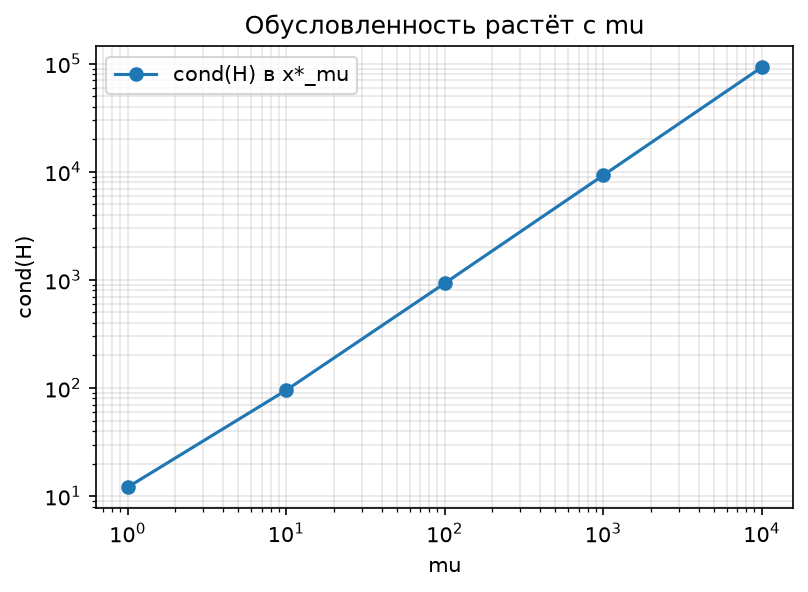
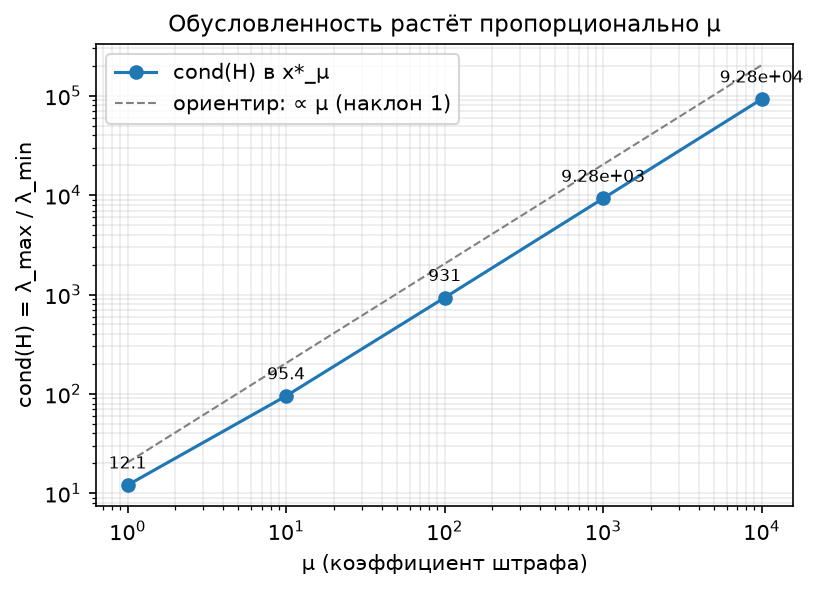
Исправленные графики п.5

diff --git a/scripts/metrics_report.py b/scripts/metrics_report.py
@@ -22,11 +22,11 @@ import matplotlib
 matplotlib.use("Agg")
 import matplotlib.pyplot as plt
 import numpy as np
-from scipy.optimize import linprog
+from scipy.optimize import linprog, minimize
 
 from methods.gd import GD
 from oracles.transport import TransportOracle
-from scripts.check_penalty import constraint_matrix, newton_solve, reference_solution
+from scripts.check_penalty import constraint_matrix, newton_solve
 from utils.metrics import condition_number
 
 OUT = "figures"
@@ -37,44 +37,53 @@ def f_orig(o, x):
     return float(o.a.ravel() @ x + 0.5 * np.sum(o.b.ravel() * x**2))
 
 
-def exact_equality_qp(o):
-    """Точное решение задачи при Ax = r (без x >= 0) из системы KKT:
-        diag(b) x + A^T lam = -a,   A x = r.
-    Если все x_ij >= 0, это и есть решение исходной задачи (x >= 0 не активно).
+def scipy_reference(o):
+    """Эталон f*: scipy.optimize.minimize (SLSQP) на ИСХОДНОЙ задаче с ограничениями.
+
+    Важно: уравнений баланса m+n, но независимых только m+n-1 (sum s = sum d),
+    а SLSQP плохо переносит линейно зависимые ограничения (без этого он
+    останавливается с ошибкой 0.02-5 по f). Поэтому убираем последнюю строку.
     """
     A, r = constraint_matrix(o.m, o.n), np.concatenate([o.s, o.d])
-    k = A.shape[0]
-    K = np.block([[np.diag(o.b.ravel()), A.T], [A, np.zeros((k, k))]])
-    rhs = np.concatenate([-o.a.ravel(), r])
-    x = np.linalg.lstsq(K, rhs, rcond=None)[0][:o.dim]   # A неполного ранга -> lstsq
-    return x
+    Ae, re = A[:-1], r[:-1]
+    a, b = o.a.ravel(), o.b.ravel()
+    res = minimize(lambda x: a @ x + 0.5 * np.sum(b * x**2),
+                   np.full(o.dim, r[:o.m].sum() / o.dim),
+                   jac=lambda x: a + b * x, method="SLSQP",
+                   bounds=[(0, None)] * o.dim,
+                   constraints={"type": "eq", "fun": lambda x: Ae @ x - re, "jac": lambda x: Ae},
+                   options={"ftol": 1e-14, "maxiter": 1000})
+    assert res.success, f"SLSQP не сошёлся: {res.message}"
+    return res.x, float(res.fun)
+
+
+def cvxpy_reference(o):
+    """Тот же f* через cvxpy; None, если cvxpy не установлен."""
+    try:
+        import cvxpy as cp
+    except ImportError:
+        return None
+    A, r = constraint_matrix(o.m, o.n), np.concatenate([o.s, o.d])
+    x = cp.Variable(o.dim)
+    obj = o.a.ravel() @ x + 0.5 * cp.sum(cp.multiply(o.b.ravel(), cp.square(x)))
+    pb = cp.Problem(cp.Minimize(obj), [A @ x == r, x >= 0])
+    pb.solve()
+    return float(pb.value)
 
 
 def reference(o):
-    """f* точно (KKT), SLSQP как перекрёстная проверка, LP как нижняя граница."""
+    """f*: scipy (основной), cvxpy (если есть) и LP (sanity check, нижняя граница)."""
     A, r = constraint_matrix(o.m, o.n), np.concatenate([o.s, o.d])
-    x_slsqp, f_slsqp = reference_solution(o)
-    x_ref = exact_equality_qp(o)
-    if x_ref.min() < -1e-9:           # x >= 0 активно -> KKT неприменим, берём SLSQP
-        x_ref, f_ref = x_slsqp, f_slsqp
-    else:
-        f_ref = f_orig(o, x_ref)
-    # LP с b=0: нижняя граница, т.к. b >= 0  =>  f_LP* <= f*
+    x_ref, f_ref = scipy_reference(o)
+    # sanity check: LP при b = 0. Так как b >= 0, стоимость LP не больше f*.
     lp = linprog(o.a.ravel(), A_eq=A, b_eq=r, bounds=(0, None), method="highs")
-    info = {"f_exact": f_ref, "f_slsqp": f_slsqp,
-            "slsqp_error": float(f_slsqp - f_ref),     # у SLSQP может быть недосходимость
-            "f_lp_lower": lp.fun,
-            "viol_exact": float(np.abs(A @ x_ref - r).max()),
-            "min_x_exact": float(x_ref.min())}
-    try:
-        import cvxpy as cp
-        x = cp.Variable(o.dim)
-        pb = cp.Problem(cp.Minimize(o.a.ravel() @ x + 0.5 * cp.sum(cp.multiply(o.b.ravel(), cp.square(x)))),
-                        [A @ x == r, x >= 0])
-        pb.solve()
-        info["f_cvxpy"] = float(pb.value)
-    except ImportError:
-        pass
+    info = {"f_scipy": f_ref, "f_lp_lower": lp.fun,
+            "viol_scipy": float(np.abs(A @ x_ref - r).max()),
+            "min_x_scipy": float(x_ref.min())}
+    f_cvx = cvxpy_reference(o)
+    if f_cvx is not None:
+        info["f_cvxpy"] = f_cvx
+        assert abs(f_cvx - f_ref) < 1e-4 * max(1.0, abs(f_ref)), "scipy и cvxpy не совпали"
     assert info["f_lp_lower"] <= f_ref + 1e-8, "LP-граница выше f*: эталон неверен"
     return x_ref, f_ref, info
 
@@ -113,7 +122,7 @@ def run(m, n, seed, mus, tol, eps_gap, max_iter):
     r = np.concatenate([o0.s, o0.d])
     _, f_star, ref_info = reference(o0)
 
-    rows, hists = [], {}
+    rows, hists, devs = [], {}, {}
     for mu in mus:
         o = TransportOracle(m, n, seed, mu=mu)
         x_mu = newton_solve(o, np.zeros(o.dim))            # точный минимум F_mu
@@ -133,45 +142,124 @@ def run(m, n, seed, mus, tol, eps_gap, max_iter):
             "gd_residual_final": float(np.linalg.norm(A @ x_end - r)),
         })
         hists[mu] = np.array(f_hist) - F_mu_star
+        devs[mu] = A @ x_mu - r              # недовоз/перевоз по каждому складу и магазину
         print(f"mu={mu:8g} cond={rows[-1]['cond_H']:.2e} res={rows[-1]['residual']:.2e} "
               f"f-f*={rows[-1]['f_minus_fstar']:+.2e} "
               f"GD iters: gap={rows[-1]['gd_iters_gap']} grad={rows[-1]['gd_iters_grad']}")
-    return f_star, ref_info, rows, hists
+    return f_star, ref_info, rows, hists, devs
 
 
-def make_plots(rows, hists, tag, crit="gap"):
+def _num(v):
+    """'>300000' -> 300000 (для нерасшедшихся точек), число остаётся числом."""
+    return int(str(v).lstrip(">")) if isinstance(v, str) else v
+
+
+def _save(fig, name, tag):
     os.makedirs(OUT, exist_ok=True)
+    fig.savefig(f"{OUT}/{name}_{tag}.png", dpi=150, bbox_inches="tight")
+    plt.close(fig)
+
+
+def _setup(ax, title, xlabel="μ (коэффициент штрафа)", ylabel=None):
+    ax.set_xscale("log"); ax.set_yscale("log")
+    ax.grid(True, which="both", alpha=.25)
+    ax.set_title(title, fontsize=11); ax.set_xlabel(xlabel)
+    if ylabel:
+        ax.set_ylabel(ylabel)
+
+
+def _ref(ax, mus, ys, power, label):
+    """Пунктир-ориентир: y ~ mu^power, проведён через последнюю точку (чуть смещён)."""
+    mus, ys = np.array(mus, float), np.array(ys, float)
+    y_ref = ys[-1] * (mus / mus[-1]) ** power * 2.2
+    ax.plot(mus, y_ref, "--", color="gray", lw=1, label=label)
+
+
+def make_plots(rows, hists, devs, tag, crit="gap", eps_gap=1e-4, m=3, n=3):
     mus = [r["mu"] for r in rows]
+    C, R, Q = "#1f77b4", "#d62728", "#ff7f0e"
 
+    # 1. обусловленность
+    cond = [r["cond_H"] for r in rows]
     fig, ax = plt.subplots(figsize=(6, 4))
-    ax.loglog(mus, [r["cond_H"] for r in rows], "o-", label="cond(H) в x*_mu")
-    ax.set_xlabel("mu"); ax.set_ylabel("cond(H)"); ax.grid(True, which="both", alpha=.3)
-    ax.set_title("Обусловленность растёт с mu"); ax.legend()
-    fig.savefig(f"{OUT}/cond_vs_mu_{tag}.png", dpi=150, bbox_inches="tight"); plt.close(fig)
+    ax.plot(mus, cond, "o-", color=C, label="cond(H) в x*_μ")
+    _ref(ax, mus, cond, 1, "ориентир: ∝ μ (наклон 1)")
+    for x, y in zip(mus, cond):
+        ax.annotate(f"{y:.3g}", (x, y), textcoords="offset points", xytext=(0, 8), ha="center", fontsize=8)
+    _setup(ax, "Обусловленность растёт пропорционально μ", ylabel="cond(H) = λ_max / λ_min")
+    ax.legend(); _save(fig, "cond_vs_mu", tag)
 
+    # 2. точность ограничений и качество
+    res = [r["residual"] for r in rows]
     fig, ax = plt.subplots(figsize=(6, 4))
-    ax.loglog(mus, [r["residual"] for r in rows], "o-", label="||Ax - r||")
-    ax.loglog(mus, [abs(r["f_minus_fstar"]) for r in rows], "s-", label="|f - f*|")
-    ax.set_xlabel("mu"); ax.grid(True, which="both", alpha=.3); ax.legend()
-    ax.set_title("Качество решения исходной задачи")
-    fig.savefig(f"{OUT}/quality_vs_mu_{tag}.png", dpi=150, bbox_inches="tight"); plt.close(fig)
+    ax.plot(mus, res, "o-", color=R, label="невязка ‖Ax − r‖")
+    ax.plot(mus, [abs(r["f_minus_fstar"]) for r in rows], "s-", color=Q, label="|f − f*|")
+    _ref(ax, mus, res, -1, "ориентир: ∝ 1/μ (наклон −1)")
+    for x, y in zip(mus, res):
+        ax.annotate(f"{y:.2g}", (x, y), textcoords="offset points", xytext=(0, 8), ha="center", fontsize=8, color=R)
+    _setup(ax, "Ограничения выполняются тем точнее, чем больше μ")
+    ax.legend(); _save(fig, "quality_vs_mu", tag)
 
+    # 3. итерации GD (не сошедшиеся точки показываем у потолка max_iter)
+    key = f"gd_iters_{crit}"; ok = f"gd_converged_{crit}"
+    crit_txt = (f"F_μ − F_μ* ≤ {eps_gap:g}" if crit == "gap" else "‖∇F‖ ≤ 1e-6·‖∇F(x₀)‖")
     fig, ax = plt.subplots(figsize=(6, 4))
-    ax.loglog(mus, [r[f"gd_iters_{crit}"] if r[f"gd_converged_{crit}"] else np.nan for r in rows], "o-")
-    for r in rows:
-        if not r[f"gd_converged_{crit}"]:
-            ax.annotate("не сошёлся", (r["mu"], 1), color="red", fontsize=8)
-    ax.set_xlabel("mu"); ax.set_ylabel("итераций GD: F-F* <= eps" if crit == "gap" else "итераций GD: ||grad|| <= tol*||grad(x0)||")
-    ax.grid(True, which="both", alpha=.3); ax.set_title("Число итераций GD (шаг 1/L)")
-    fig.savefig(f"{OUT}/iters_vs_mu_{tag}.png", dpi=150, bbox_inches="tight"); plt.close(fig)
+    good = [(r["mu"], r[key]) for r in rows if r[ok]]
+    bad = [(r["mu"], _num(r[key])) for r in rows if not r[ok]]
+    ax.plot(*zip(*good), "o-", color=C, label="GD, шаг 1/L")
+    if bad:
+        ax.plot(*zip(*bad), "x", color=R, ms=10, mew=2, label="не сошёлся за лимит итераций")
+        for x, y in bad:
+            ax.annotate(f">{y}", (x, y), textcoords="offset points", xytext=(0, -14), ha="center", fontsize=8, color=R)
+    for x, y in good:
+        ax.annotate(f"{y}", (x, y), textcoords="offset points", xytext=(0, 8), ha="center", fontsize=8)
+    _ref(ax, [g[0] for g in good], [g[1] for g in good], 1, "ориентир: ∝ μ")
+    _setup(ax, f"Число итераций GD ({crit_txt})", ylabel="итераций")
+    ax.legend(loc="lower right", fontsize=8); _save(fig, "iters_vs_mu", tag)
 
+    # 4. кривые сходимости
     fig, ax = plt.subplots(figsize=(7, 4))
     for mu, d in hists.items():
-        ax.semilogy(np.maximum(d, 1e-16), label=f"mu={mu:g}")
+        ax.semilogy(np.maximum(d, 1e-16), label=f"μ = {mu:g}")
+    ax.axhline(eps_gap, ls="--", color="gray", lw=1)
+    ax.text(0.99, eps_gap * 1.5, f"порог ε = {eps_gap:g}", transform=ax.get_yaxis_transform(), ha="right", fontsize=8, color="gray")
     ax.set_xscale("symlog", linthresh=10)
-    ax.set_xlabel("итерация"); ax.set_ylabel("F_mu(x_k) - F_mu*")
-    ax.grid(True, which="both", alpha=.3); ax.legend(); ax.set_title("Сходимость GD")
-    fig.savefig(f"{OUT}/convergence_{tag}.png", dpi=150, bbox_inches="tight"); plt.close(fig)
+    ax.set_xlabel("итерация GD"); ax.set_ylabel("F_μ(x_k) − F_μ*")
+    ax.grid(True, which="both", alpha=.25); ax.legend(); ax.set_title("Сходимость GD: чем больше μ, тем медленнее")
+    _save(fig, "convergence", tag)
+
+    # 5. компромисс: точность против стоимости вычислений
+    fig, ax = plt.subplots(figsize=(6, 4.3))
+    xs = [_num(r[key]) for r in rows]; ys = res
+    ax.plot(xs, ys, "-", color="gray", lw=1, zorder=1)
+    for r, x, y in zip(rows, xs, ys):
+        done = r[ok]
+        ax.scatter([x], [y], s=70, zorder=2, color=C if done else "white", edgecolor=C if done else R, linewidth=2)
+        ax.annotate(f"μ={r['mu']:g}" + ("" if done else "\n(не сошёлся)"), (x, y),
+                    textcoords="offset points", xytext=(8, 6), fontsize=8)
+    _setup(ax, "Компромисс: точнее ограничения — больше итераций",
+           xlabel="итераций GD (стоимость вычислений)", ylabel="невязка ‖Ax − r‖ (ошибка ограничений)")
+    ax.margins(x=0.15, y=0.15)
+    _save(fig, "tradeoff", tag)
+
+    # 6. что такое невязка физически: недовоз/перевоз по каждому складу и магазину
+    pick = [mu for mu in mus if mu in (1, 10, 100, 1000)] or mus[:4]
+    cols = 2; rws = int(np.ceil(len(pick) / cols))
+    fig, axs = plt.subplots(rws, cols, figsize=(8, 3.2 * rws), squeeze=False)
+    names = [f"Склад {i+1}" for i in range(m)] + [f"Магазин {j+1}" for j in range(n)]
+    if m + n > 8:
+        names = [f"С{i+1}" for i in range(m)] + [f"М{j+1}" for j in range(n)]
+    for ax, mu in zip(axs.ravel(), pick):
+        d = devs[mu]
+        ax.bar(range(len(d)), d, color=[Q if v < 0 else C for v in d])
+        ax.axhline(0, color="black", lw=.8); ax.axvline(m - .5, color="gray", ls=":")
+        ax.set_xticks(range(len(d))); ax.set_xticklabels(names, rotation=45, ha="right", fontsize=7)
+        ax.set_title(f"μ = {mu:g}:  ‖Ax − r‖ = {np.linalg.norm(d):.3g}", fontsize=10)
+        ax.set_ylabel("(Ax − r)ᵢ, ед. груза"); ax.grid(axis="y", alpha=.25)
+    for ax in axs.ravel()[len(pick):]:
+        ax.axis("off")
+    fig.suptitle("Невязка по ограничениям: оранж. — недовоз/недопоставка, синий — перевоз/излишек\n(масштаб оси Y в каждой панели свой: с ростом μ столбцы уменьшаются в разы)", fontsize=10)
+    fig.tight_layout(); _save(fig, "imbalance", tag)
 
 
 if __name__ == "__main__":
@@ -186,13 +274,13 @@ if __name__ == "__main__":
     a = p.parse_args()
 
     mus = [1, 10, 100, 1e3, 1e4]
-    f_star, info, rows, hists = run(a.m, a.n, a.seed, mus, a.tol, a.eps_gap, a.max_iter)
-    print(f"\nf* (точное, KKT) = {f_star:.8f}; проверки: {info}")
+    f_star, info, rows, hists, devs = run(a.m, a.n, a.seed, mus, a.tol, a.eps_gap, a.max_iter)
+    print(f"\nf* (scipy) = {f_star:.8f}; проверки: {info}")
 
     tag = f"m{a.m}n{a.n}s{a.seed}"
     os.makedirs(OUT, exist_ok=True)
     with open(f"{OUT}/metrics_table_{tag}.csv", "w", newline="") as fh:
         w = csv.DictWriter(fh, fieldnames=list(rows[0]))
         w.writeheader(); w.writerows(rows)
-    make_plots(rows, hists, tag, a.criterion)
+    make_plots(rows, hists, devs, tag, a.criterion, a.eps_gap, a.m, a.n)
     print(f"Таблица и графики сохранены в {OUT}/")
